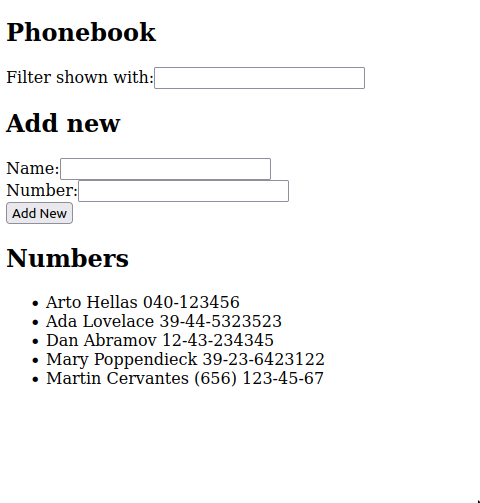
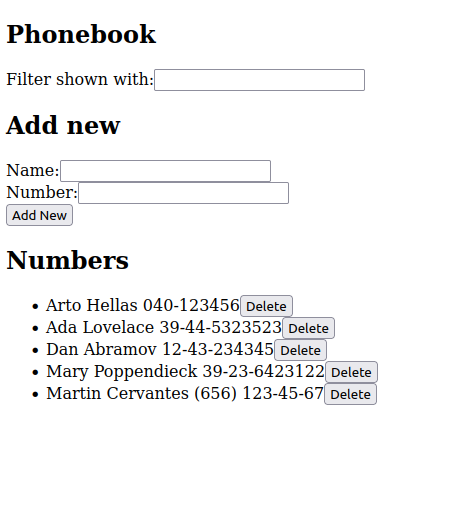
Add exercise 2.17 phonebook step 9

diff --git a/part2/phonebook/src/components/App.js b/part2/phonebook/src/components/App.js
@@ -61,13 +61,28 @@ const App = () => {
     setSearch(event.target.value)
   }
 
+  const handleDelete = (id) => {
+    const result = window.confirm('Are you sure you want to delete this item?')
+
+    if (result) {
+      personsService
+        .drop(id)
+        .then(returnedPersons => {
+          setPersons(persons.filter(p => p.id !== id))
+        })
+    }
+  }
+
   let regex = new RegExp(`${search}`, 'g');
 
   return (
     <div>
       <h2>Phonebook</h2>
 
-      <Filter search={search} handleChangeSearch={handleChangeSearch} />
+      <Filter
+        search={search}
+        handleChangeSearch={handleChangeSearch}
+      />
 
       <h2>Add new</h2>
 
@@ -81,7 +96,11 @@ const App = () => {
 
       <h2>Numbers</h2>
 
-      <Persons persons={persons} regex={regex} />
+      <Persons
+        persons={persons}
+        regex={regex}
+        handleDelete={handleDelete}
+      />
     </div>
   )
 }

diff --git a/part2/phonebook/src/components/Persons.js b/part2/phonebook/src/components/Persons.js
@@ -1,8 +1,17 @@
 import React from 'react'
 
-const Persons = ({ persons, regex }) => (
+const Persons = ({ persons, regex, handleDelete }) => (
   <ul>
-    { persons.filter(({name}) => name.match(regex)).map((p, index)=> <li key={index}>{p.name} {p.number}</li>) }
+    {
+      persons
+        .filter(({name}) => name.match(regex))
+        .map((p, index) => (
+          <li key={index}>
+            {p.name} {p.number}
+            <button onClick={() => handleDelete(p.id)}>Delete</button>
+          </li>
+        ))
+    }
   </ul>
 )
 

diff --git a/part2/phonebook/src/services/persons.js b/part2/phonebook/src/services/persons.js
@@ -11,4 +11,9 @@ const create = newObject => {
   return request.then(response => response.data)
 }
 
-export default { getAll, create }
+const drop = id => {
+  const request = axios.delete(`${baseUrl}/${id}`)
+  return request.then(response => response.data)
+}
+
+export default { getAll, create, drop }
